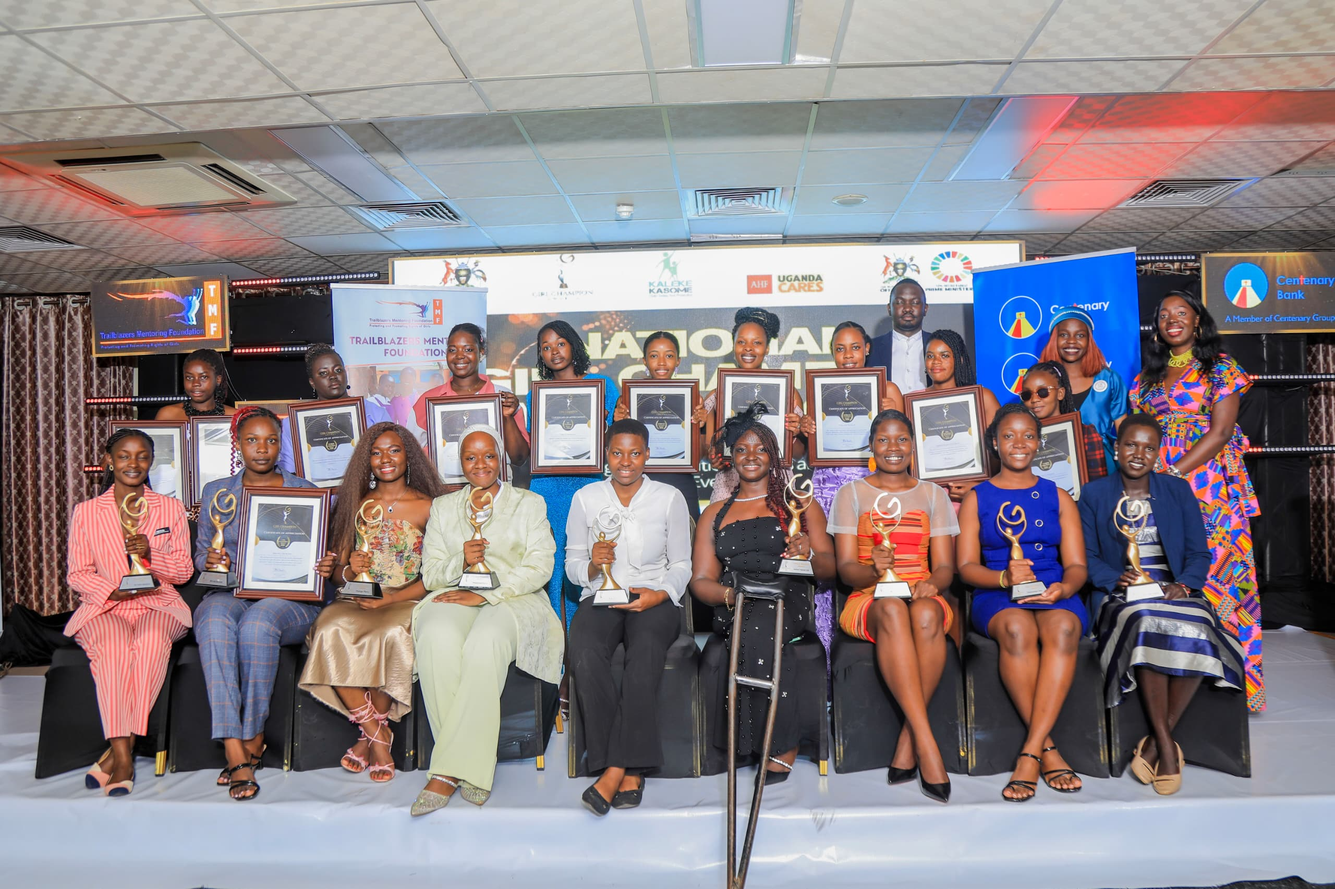
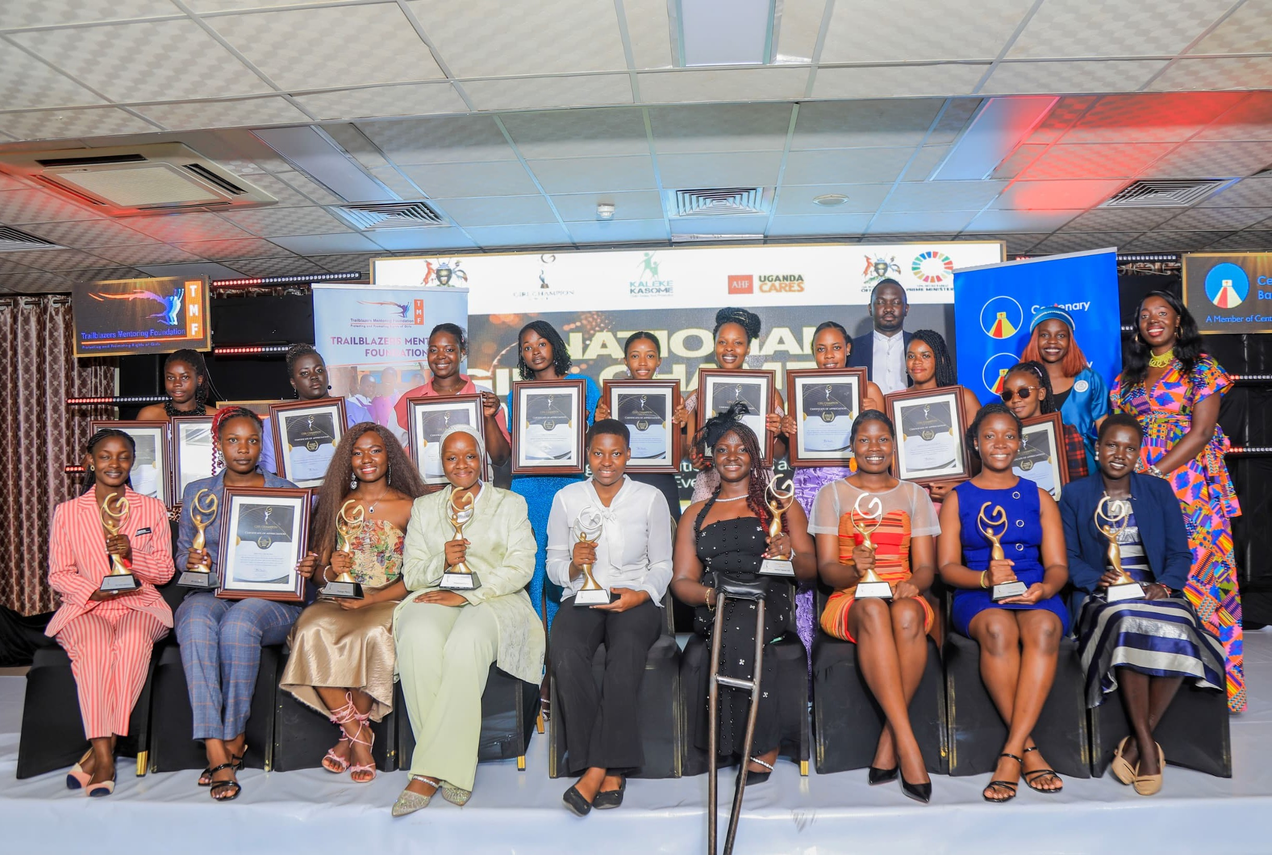
NEW CHANGES TO IMAGES

diff --git a/home.html b/home.html
@@ -61,6 +61,8 @@
 
 <br>
 
+</section>
+
  <!-- Her Journey Section -->
 
 <section id="her-journey">
@@ -168,12 +170,10 @@
 
 
 </section>
- 
+
 <!-- Footer -->
-
+ 
 <footer>
-
-
 
   <p>
     One Journey. Many Dreams. Lasting Impact.

diff --git a/education.html b/education.html
@@ -124,4 +124,5 @@
 
 </body>
 
+
 </html>
